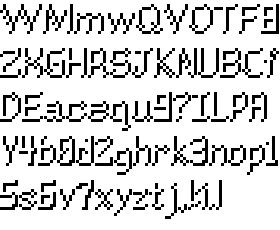
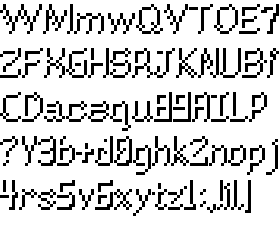
More GUI Tweaks
- Minor changesdone for a few components
- Adjusted colon height
- Added plus and pipe
- Made buttons more friendly

diff --git a/GUIComponents/Screens/HUDScreen.cs b/GUIComponents/Screens/HUDScreen.cs
@@ -1022,9 +1022,9 @@ namespace RiverHollow.Game_Managers.GUIObjects
                     for (int i = 0; i < GameManager.MAX_NAME_LEN; i++) { nameLen += "X"; }
 
                     _gName = new GUIText(nameLen);
-                    _gName.AnchorToInnerSide(_winName, SideEnum.TopLeft, SPACING);
+                    _gName.AnchorToInnerSide(_winName, SideEnum.TopLeft, GUIManager.STANDARD_MARGIN);
                     _gClass = new GUIText("XXXXXXXX");
-                    _gClass.AnchorAndAlignToObject(_gName, SideEnum.Right, SideEnum.Bottom, 10);
+                    _gClass.AnchorAndAlignToObject(_gName, SideEnum.Right, SideEnum.Bottom, GUIManager.STANDARD_MARGIN);
 
                     _sBoxHead = new SpecializedBox(_character.CharacterClass.ArmorType, _character.Head.GetItem(), FindMatchingItems);
                     _sBoxArmor = new SpecializedBox(_character.CharacterClass.ArmorType, _character.Armor.GetItem(), FindMatchingItems);

diff --git a/GUIComponents/GUIObjects/GUIButton.cs b/GUIComponents/GUIObjects/GUIButton.cs
@@ -10,7 +10,7 @@ namespace RiverHollow.Game_Managers.GUIObjects
 {
     public class GUIButton : GUIObject
     {
-        public static int BTN_WIDTH = 128;
+        public static int BTN_WIDTH = 208;
         public static int BTN_HEIGHT = 64;
         protected BitmapFont _font;
         public bool IsMouseHovering = false;
@@ -45,7 +45,6 @@ namespace RiverHollow.Game_Managers.GUIObjects
             Width = width;
             Height = height;
             _gText = new GUIText(text);
-            _gText.SetColor(Color.Red);
             _gText.CenterOnWindow(_gWindow);
 
             _btnObject = _gWindow;

diff --git a/Game Managers/GUIManager.cs b/Game Managers/GUIManager.cs
@@ -19,7 +19,7 @@ namespace RiverHollow.Game_Managers
 
         public static int STANDARD_MARGIN = 4;
         public static int MINI_BTN_HEIGHT = ScaledTileSize;
-        public static int MINI_BTN_WIDTH = 128;
+        public static int MINI_BTN_WIDTH = 168;
 
         public static int MAIN_COMPONENT_WIDTH = RiverHollow.ScreenWidth / 3;
         public static int MAIN_COMPONENT_HEIGHT = RiverHollow.ScreenWidth / 3;
